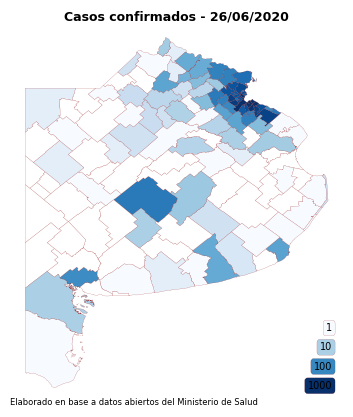
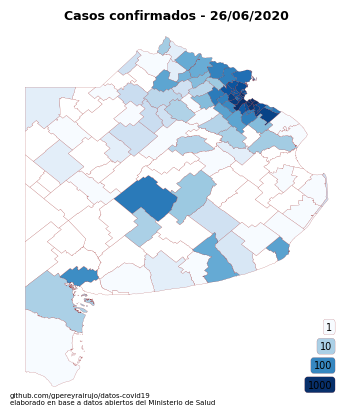
actualicé mapas

diff --git a/programas/mapa_bsas.py b/programas/mapa_bsas.py
@@ -17,7 +17,7 @@ def mapa_municipios(datos_mapa, columna_datos, ruta_imagen, titulo='', leyenda_p
     grosor_bordes = 0.1
     tamanio_rotulos=7
     tamanio_titulo=9
-    tamanio_leyenda=6
+    tamanio_leyenda=5
     # figura, tamaño, ejes
     fig, ax = plt.subplots(1, figsize=(ancho_pugadas, alto_pulgadas))       # crear figura y asignar tamaño
     plt.axis('equal')                                                       # mantener proporción latitud y longitud
@@ -90,14 +90,14 @@ ultima_actualizacion = datos_mapa.ix[1, 'ultima_actualizacion']
 
 # mapa 1: provincia bs as
 titulo = 'Casos confirmados - '+ultima_actualizacion
-leyenda = 'Elaborado en base a datos abiertos del Ministerio de Salud'
+leyenda = 'github.com/gpereyrairujo/datos-covid19\nelaborado en base a datos abiertos del Ministerio de Salud'
 ruta_imagen = carpeta_destino_mapas + 'mapa_casos_provincia.png'
 # dibujar mapa
 mapa_municipios(datos_mapa, 'Total', ruta_imagen, titulo, leyenda, rotulos=False, leyenda_escala=True, maximo_escala_log=3, ancho_pugadas=4.3, alto_pulgadas=5)
 
 # mapa 2: region centro-sudeste
 titulo = 'Casos confirmados - '+ultima_actualizacion
-leyenda = 'Elaborado en base a datos abiertos del Ministerio de Salud'
+leyenda = 'github.com/gpereyrairujo/datos-covid19 - elaborado en base a datos abiertos del Ministerio de Salud'
 ruta_imagen = carpeta_destino_mapas + 'mapa_casos_region.png'
 # filtrar por latitud y longitud
 datos_mapa = datos_mapa.loc[(datos_mapa['Latitud']<-35.7) & (datos_mapa['Longitud']>-60.8)]
